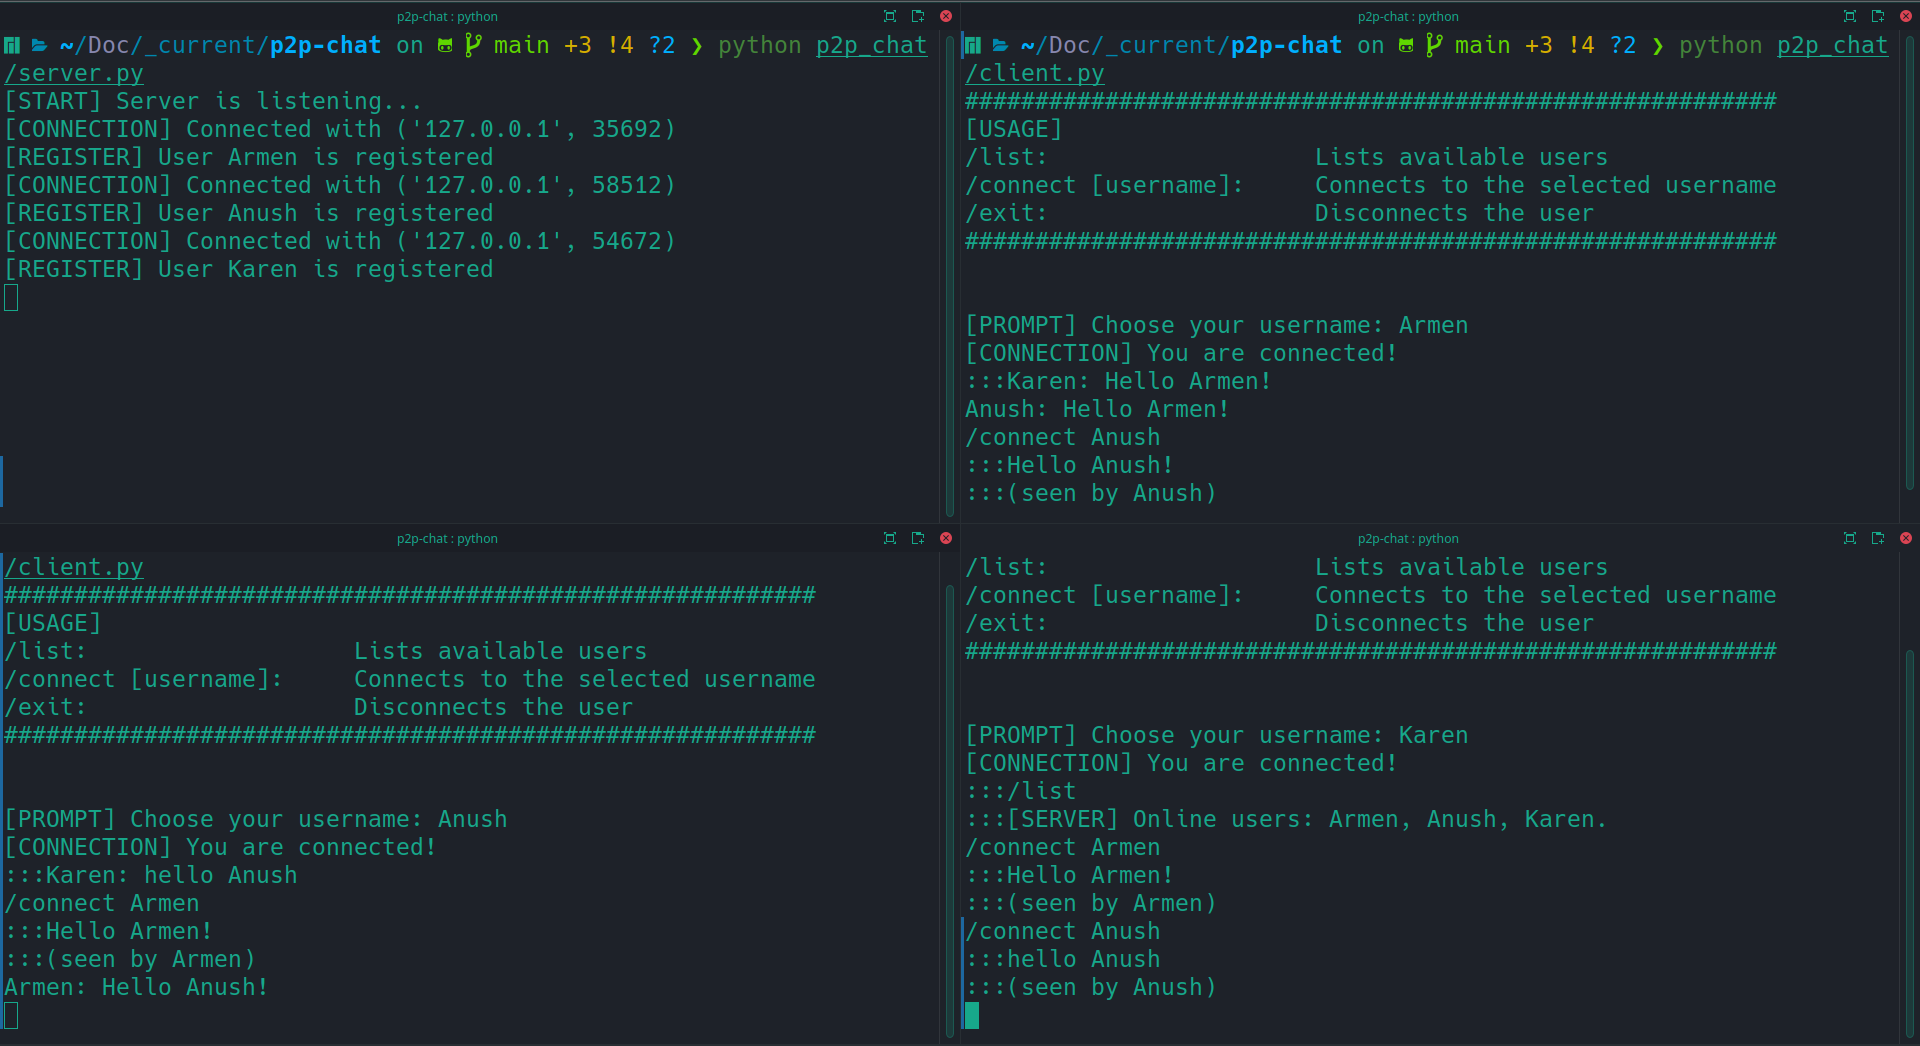
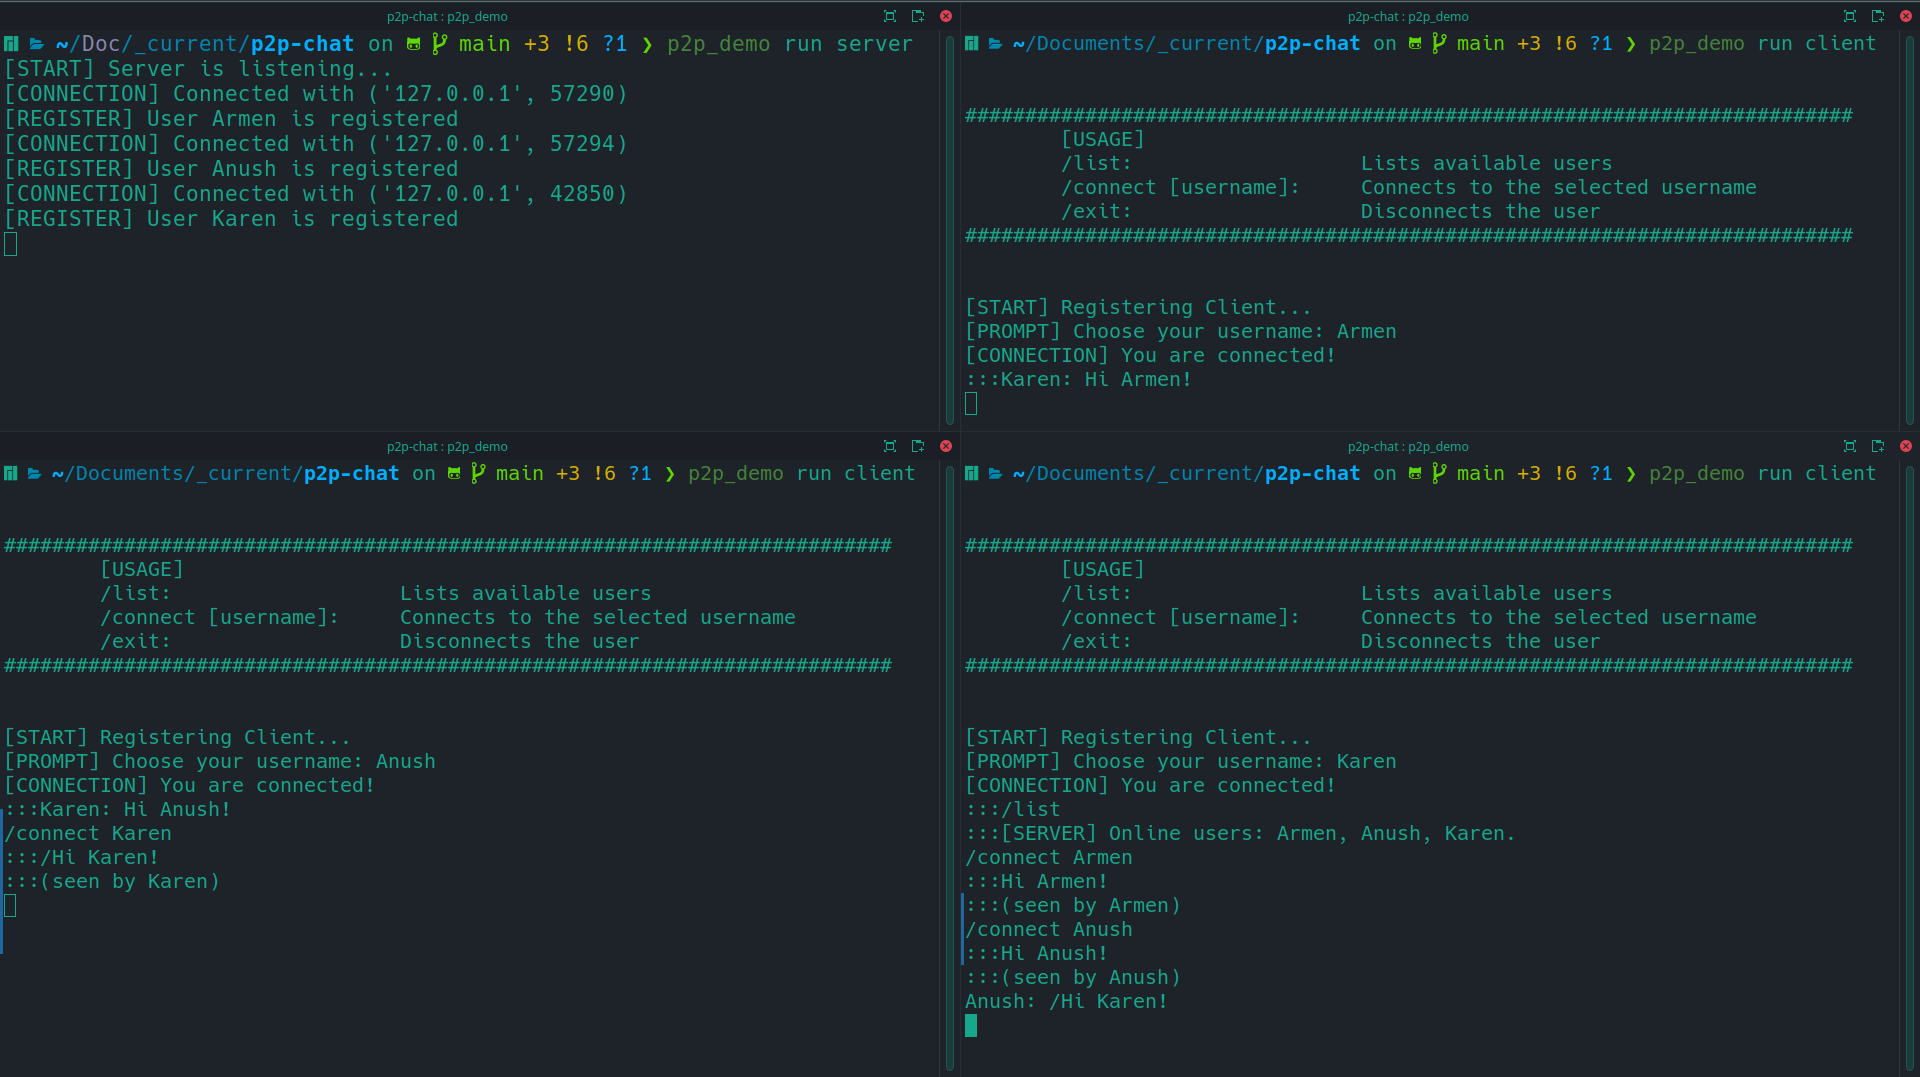
Added command line arg parser

diff --git a/p2p_chat/main.py b/p2p_chat/main.py
@@ -1,0 +1,52 @@
+import argparse
+import socket
+
+from p2p_chat import server, client, spec
+
+parser = argparse.ArgumentParser()
+subparser = parser.add_subparsers(dest="func_name")
+
+parser_a = subparser.add_parser("run")
+parser_a.add_argument("module", help="The name of the repo.", choices=['server', 'client'])
+# parser_a.add_argument("-c", "--case_name", help="The name of the case.")
+
+ARGS = parser.parse_known_args()[0]
+KWARGS = vars(ARGS)
+
+
+def main():
+
+    module = KWARGS["module"]
+    if module == "server":
+        # Starting Server
+        s = socket.socket(socket.AF_INET, socket.SOCK_STREAM)
+        s.setsockopt(socket.SOL_SOCKET, socket.SO_REUSEADDR, 1)
+        s.bind(spec.ADDRESS)
+        s.listen()
+        print("[START] Server is listening...")
+        server.receive(s)
+    elif module == "client":
+        # Prints usage on the terminal
+        print('\n')
+        print("##########################################################################")
+        print("\t[USAGE]")
+        print("\t/list: \t\t\t Lists available users")
+        print("\t/connect [username]: \t Connects to the selected username")
+        print("\t/exit: \t\t\t Disconnects the user")
+        print("##########################################################################")
+        print('\n')
+
+        # Starting Server
+        print("[START] Registering Client...")
+        # Choosing username
+        username = input("[PROMPT] Choose your username: ")
+
+        # Connecting to Server
+        c = socket.socket(socket.AF_INET, socket.SOCK_STREAM)
+        c.connect(spec.ADDRESS)
+
+        client.run_client(c, username)
+
+
+if __name__ == '__main__':
+    main()

diff --git a/p2p_chat/client.py b/p2p_chat/client.py
@@ -1,9 +1,10 @@
 import socket
 import threading
-import spec
+
+from p2p_chat import spec
 
 
-def receive():
+def receive(client, sender):
     """
     Listens to the server and sends username or prints the message
     """
@@ -21,7 +22,7 @@ def receive():
             break
 
 
-def write():
+def write(client, sender):
     """
     Sends messages to server
     """
@@ -30,28 +31,13 @@ def write():
         client.send(message.encode('ascii'))
 
 
-if __name__ == '__main__':
-    # Prints usage on the terminal
-    print("##########################################################")
-    print("[USAGE]")
-    print("/list: \t\t\t Lists available users")
-    print("/connect [username]: \t Connects to the selected username")
-    print("/exit: \t\t\t Disconnects the user")
-    print("##########################################################")
-    print('\n')
-
-    # Choosing username
-    sender = input("[PROMPT] Choose your username: ")
-
-    # Connecting to Server
-    client = socket.socket(socket.AF_INET, socket.SOCK_STREAM)
-    client.connect(spec.ADDRESS)
+def run_client(c, username):
 
     # Starting thread for listening
-    receive_thread = threading.Thread(target=receive)
+    receive_thread = threading.Thread(target=receive, args=(c, username))
     receive_thread.start()
 
     # Starting thread for writing
-    write_thread = threading.Thread(target=write)
+    write_thread = threading.Thread(target=write, args=(c, username))
     write_thread.start()
 

diff --git a/p2p_chat/server.py b/p2p_chat/server.py
@@ -1,7 +1,10 @@
 import socket
 import threading
-import spec
 
+from p2p_chat import spec
+
+# Dictionary for Clients, Their usernames, and their chat Partner/Receiver
+clients = dict()
 
 def send(message):
     """
@@ -64,7 +67,7 @@ def handle(username):
             break
 
 
-def receive():
+def receive(server):
     """
     Main function that receives the requests and sends them to the handle thread
     """
@@ -86,15 +89,3 @@ def receive():
         # Start Handling Thread For Client
         thread = threading.Thread(target=handle, args=(username,))
         thread.start()
-
-
-if __name__ == '__main__':
-    # Starting Server
-    server = socket.socket(socket.AF_INET, socket.SOCK_STREAM)
-    server.setsockopt(socket.SOL_SOCKET, socket.SO_REUSEADDR, 1)
-    server.bind(spec.ADDRESS)
-    server.listen()
-    print("[START] Server is listening...")
-    # Dictionary for Clients, Their usernames, and their chat Partner/Receiver
-    clients = dict()
-    receive()

diff --git a/setup.py b/setup.py
@@ -1,0 +1,15 @@
+from setuptools import setup, find_packages
+
+VERSION = "0.0.1"
+
+setup(
+    name="p2p-chat",
+    version=VERSION,
+    description="Peer to peer console application.",
+    author="Tigran Margaryan",
+    author_email="tigranmargarian@outlook.com",
+    packages=find_packages(),
+    entry_points={"console_scripts": ["p2p_demo=p2p_chat.main:main"]},
+    # install_requires=[
+    # ],
+)

diff --git a/README.md b/README.md
@@ -13,7 +13,7 @@ messages directly to one another.
 - Follow the prompts.
 
 ### To be improved
-- Better client to client messaging process
+- Exchange messages without the help of the server
 - To improve the UI
 - To implement a GUI
 - To connect users outside the localhost
